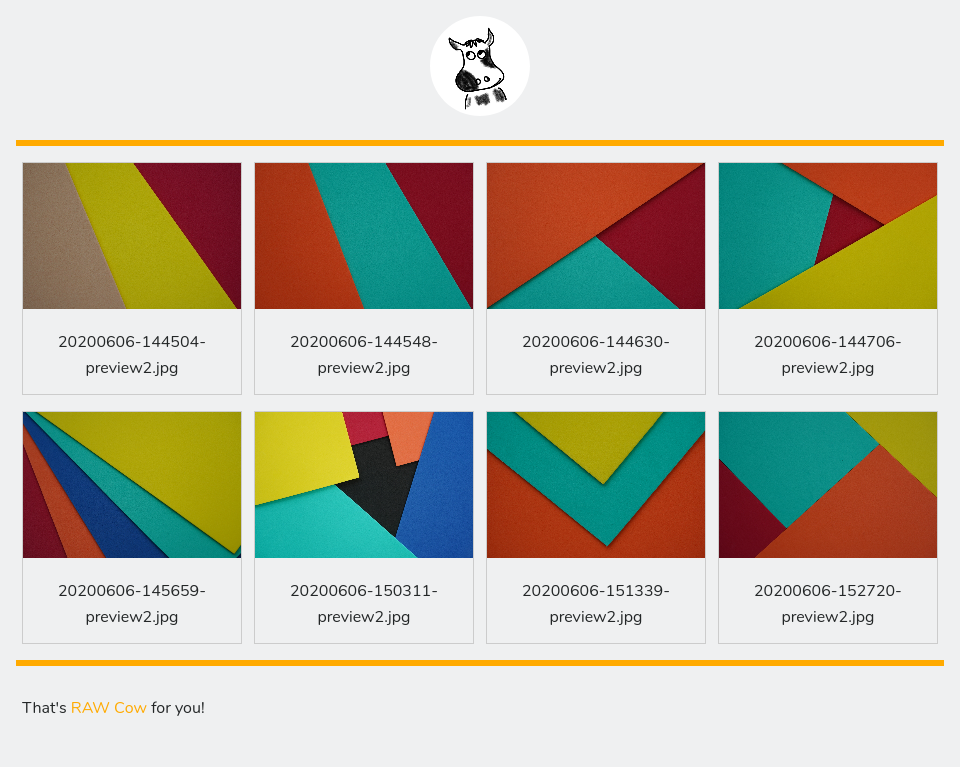
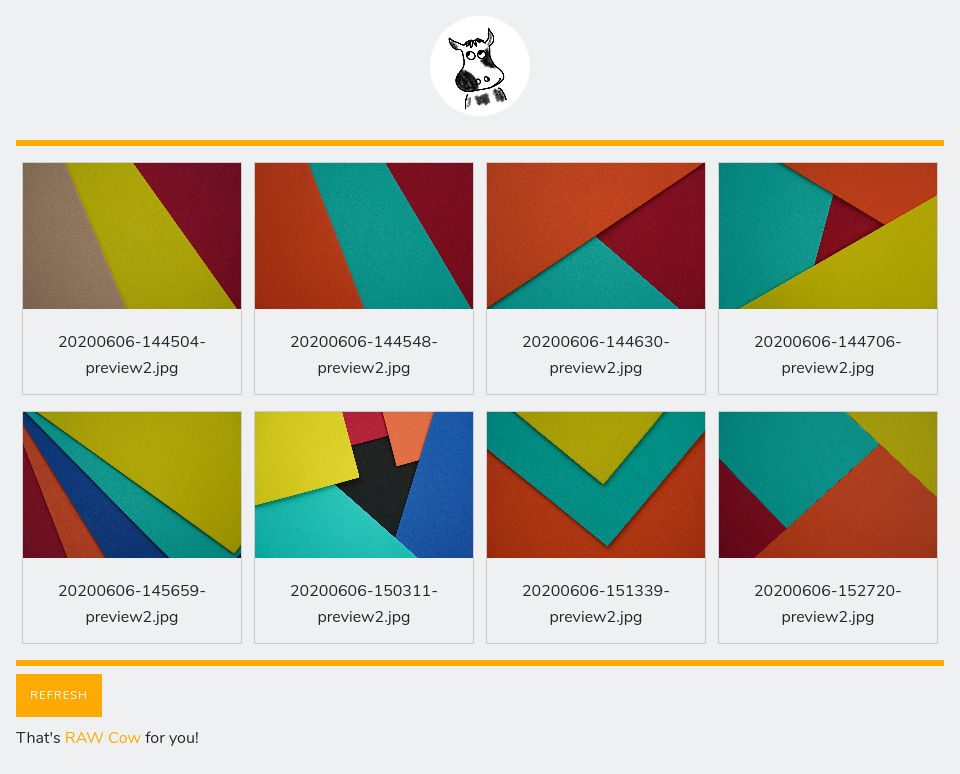
Add Refresh. Other improvements

diff --git a/index.php b/index.php
@@ -77,6 +77,14 @@ include('config.php');
 	    <hr>
 
 	    <?php
+	    function extract_preview_jpeg($work_dir, $file_ext) {
+		shell_exec('exiv2 -e p2 '.$work_dir.$file_ext);
+		$files = glob($work_dir.'*.jpg');
+		foreach($files as $file)
+		{
+		    rename($file, $work_dir.'previews/'.basename($file));
+		}
+	    } 
 	    function is_dir_empty($dir) {
 		if (!is_readable($dir)) return NULL; 
 		return (count(scandir($dir)) == 3);
@@ -89,12 +97,7 @@ include('config.php');
 	    if (!file_exists($work_dir.'previews'))
 	    {
 		shell_exec('mkdir -p '.$work_dir.'previews/');
-		shell_exec('exiv2 -e p2 '.$work_dir.$file_ext);
-		$files = glob($work_dir.'*.jpg');
-		foreach($files as $file)
-		{
-		    rename($file, $work_dir.'previews/'.basename($file));
-		}
+		extract_preview_jpeg($work_dir, $file_ext);
 	    }
 
 	    define('IMAGEPATH', $work_dir.'previews/');
@@ -111,9 +114,18 @@ include('config.php');
 	    ?>
 	    <div class="clearfix"></div>
 	    <hr>
-	    <div style="padding:6px;">
-		<p>That's <a href="https://gitlab.com/dmpop/raw-cow"> RAW Cow</a> for you!</p>
-	    </div>
+	    <form method='POST' action=''>
+		<input class="btn primary"  type="submit" name="refresh" value="Refresh"> 
+	    </form>
+	    <?php
+	    if(isset($_POST["refresh"])) {
+		shell_exec('rm -rf '.$work_dir.'previews/');
+		shell_exec('mkdir -p '.$work_dir.'previews/');
+		extract_preview_jpeg($work_dir, $file_ext);
+		echo '<meta http-equiv="refresh" content="0">';
+	    }
+	    ?>
+	    <p>That's <a href="https://gitlab.com/dmpop/raw-cow"> RAW Cow</a> for you!</p>
 	</div>
     </body>
 </html>
